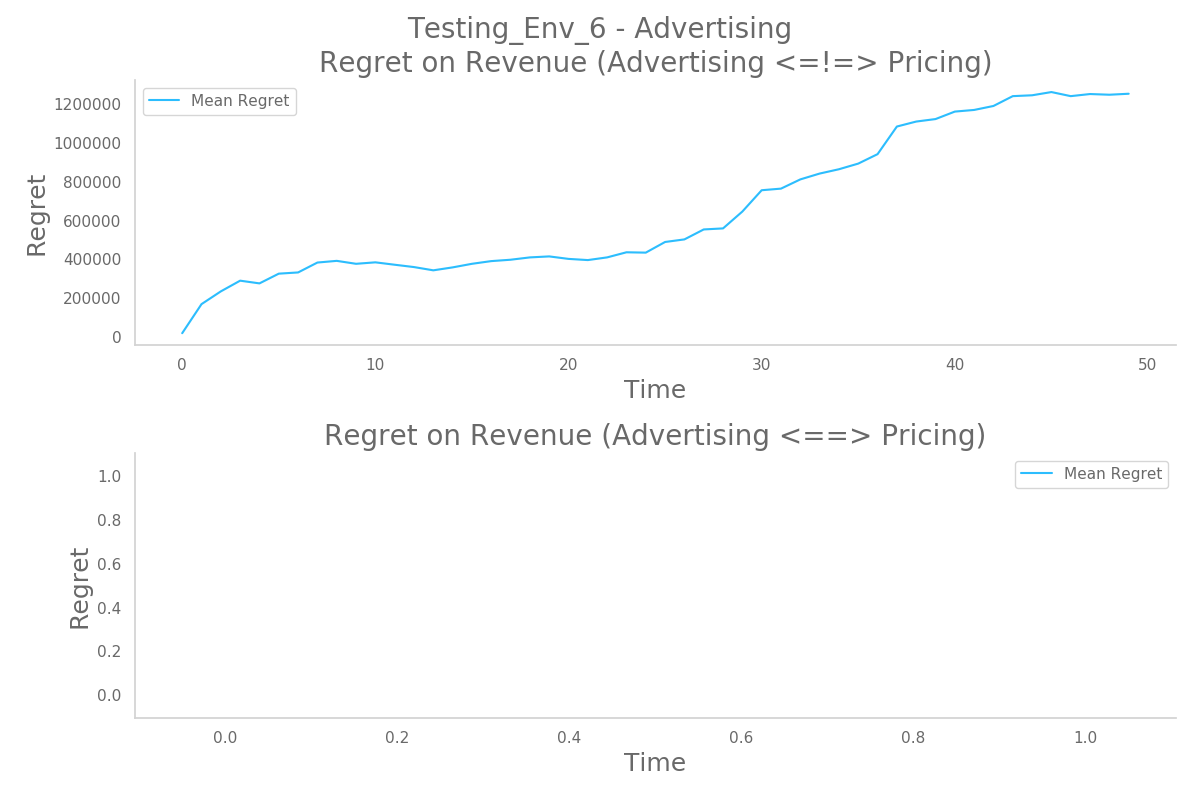
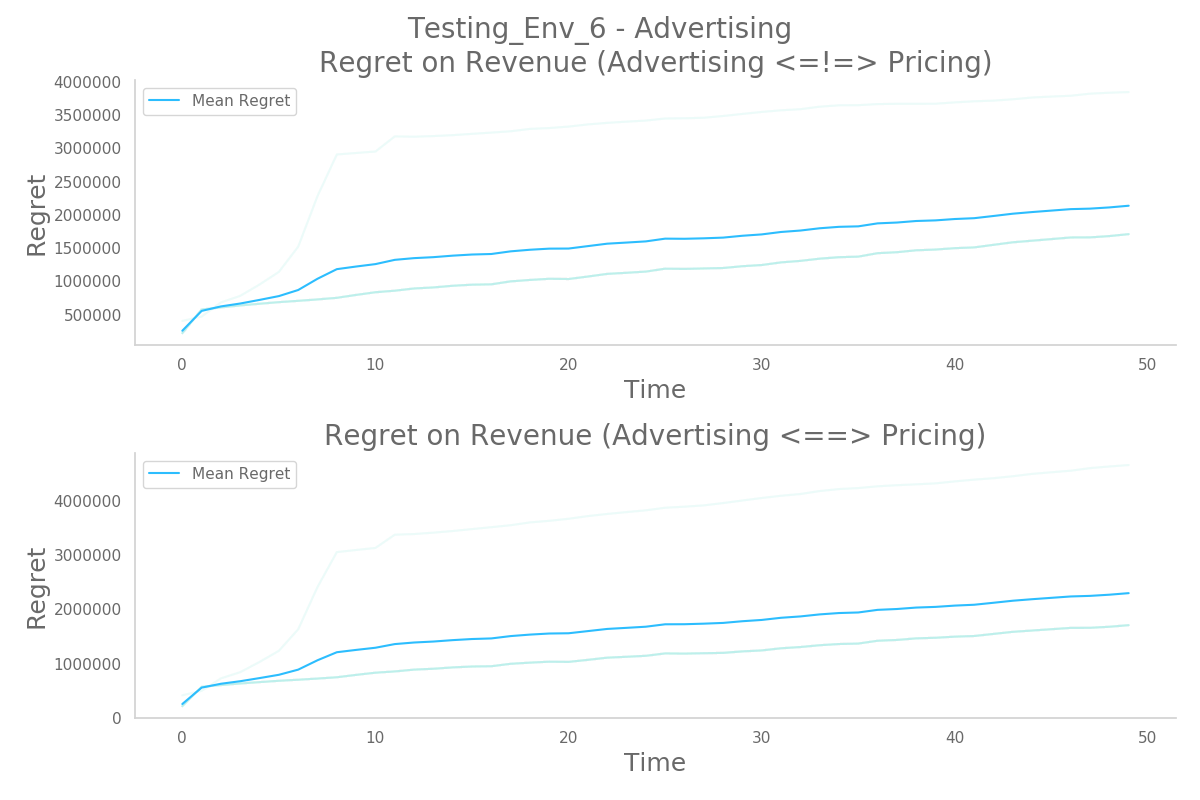
backup

diff --git a/project/part_6/BudgetAllocator.py b/project/part_6/BudgetAllocator.py
@@ -54,7 +54,7 @@ class BudgetAllocator:
 
             n_clicks = subcampaign_handler.total_clicks
             v = subcampaign_handler.total_revenue / n_clicks if n_clicks != 0 else 0
-            revenue_clicks = learner_clicks * v if self.enable_pricing else learner_clicks
+            revenue_clicks = np.multiply(learner_clicks, v) if self.enable_pricing else learner_clicks
 
             table_all_subs = np.append(table_all_subs, np.atleast_2d(revenue_clicks.T), 0)
 
@@ -78,7 +78,7 @@ class BudgetAllocator:
         # for loop to initialize the table with the product between the unknown curves and the optimal revenues
         for sub_idx, subcampaign_handler in enumerate(self.msh.subcampaigns_handlers):
             unknown_clicks_curve = subcampaign_handler.advertising.env.subs[sub_idx].means['phase_0']
-            revenue_clicks = unknown_clicks_curve * subcampaign_handler.pricing.optimal_revenue
+            revenue_clicks = np.multiply(unknown_clicks_curve, subcampaign_handler.pricing.optimal_revenue)
             table_all_subs = np.append(table_all_subs, np.atleast_2d(revenue_clicks.T), 0)
 
         # computation of the optimal allocation
@@ -87,7 +87,8 @@ class BudgetAllocator:
         # Once we have computed the optimal allocation, we can compute the total revenue
         # using the pricing
         optimal_total_revenue = 0
-        for sub_idx, (allocation, subcampaign_handler) in enumerate(zip(optimal_allocation, self.msh.subcampaigns_handlers)):
+        for sub_idx, (allocation, subcampaign_handler) in enumerate(zip(optimal_allocation,
+                                                                        self.msh.subcampaigns_handlers)):
             hypothetical_pulled_arm = get_idx_arm_from_allocation(
                 allocation=allocation,
                 bids=self.msh.subcampaigns_handlers[0].advertising.env.bids)

diff --git a/project/part_6/Advertising.py b/project/part_6/Advertising.py
@@ -1,5 +1,5 @@
 from project.part_2.GPTS_Learner import GPTS_Learner
-from project.part_2.Utils import compute_clairvoyant
+from project.part_2.Utils import compute_clairvoyant, get_idx_arm_from_allocation
 
 
 class Advertising:
@@ -20,7 +20,7 @@ class Advertising:
         self.learner = GPTS_Learner(self.n_arms, self.env.bids)
 
         self.daily_clicks = 0
-        self.optimal_clicks = compute_clairvoyant(self.env, verbose=True) / 3
+        self.optimal_clicks = self.get_optimal()
         # division by three because the function returns the total optimal number of clicks,
         # but we need only the optimal for a single sub-campaign if we want to to compute the regret!
 
@@ -37,3 +37,11 @@ class Advertising:
         self.learner.update(pulled_arm, self.daily_clicks)
 
         return self.daily_clicks
+
+    def get_optimal(self):
+        optimal_allocation = compute_clairvoyant(self.env, verbose=True)[0][self.sub_idx]
+        hypothetical_pulled_arm = get_idx_arm_from_allocation(
+            allocation=optimal_allocation,
+            bids=self.env.bids)
+        optimal_clicks = self.env.subs[self.sub_idx].means['phase_0'][hypothetical_pulled_arm]
+        return optimal_clicks

diff --git a/project/part_6/Testing_Env_6.py b/project/part_6/Testing_Env_6.py
@@ -15,7 +15,7 @@ from project.part_6.BudgetAllocator import BudgetAllocator
 
 np.random.seed(0)
 
-enable_pricing = True
+enable_pricing = False
 
 
 def execute_experiment(args):
@@ -25,7 +25,7 @@ def execute_experiment(args):
 
     budget_allocator = BudgetAllocator(multi_class_handler=mch,
                                        n_arms_pricing=10,
-                                       n_arms_advertising=15,
+                                       n_arms_advertising=11,
                                        enable_pricing=enable_pricing)
 
     current_day, done = env.reset()
@@ -92,7 +92,7 @@ if __name__ == '__main__':
     plt.legend()
     plt.show()
 
-    n_experiments = 1  # the number is small to do a raw test, otherwise set it to 1000
+    n_experiments = 10  # the number is small to do a raw test, otherwise set it to 1000
     agnostic_regret_per_experiment = []  # collect all the regrets achieved
     regret_per_experiment = []
     args = [{'environment': copy.deepcopy(base_env), 'index': idx, 'multiclasshandler': mch}

diff --git a/project/part_2/Testing_part2.py b/project/part_2/Testing_part2.py
@@ -8,7 +8,7 @@ from project.part_2.GPTS_Learner import GPTS_Learner
 from project.part_2.Optimizer import fit_table
 from project.part_2.Utils import get_idx_arm_from_allocation, compute_clairvoyant
 
-np.random.seed(0)
+np.random.seed(88)
 
 
 def initialization(total_click, learners, env):
@@ -114,7 +114,7 @@ if __name__ == '__main__':
     for i in range(0, n_subcamp):
         learners.append(GPTS_Learner(n_arms, bids))
 
-    opt = compute_clairvoyant(env, verbose=True)
+    opt = compute_clairvoyant(env, verbose=True)[1]
 
     total_click_each_day = initialization(total_click_each_day, learners, env)
 

diff --git a/project/dia_pckg/SubCampaign.py b/project/dia_pckg/SubCampaign.py
@@ -19,8 +19,8 @@ class SubCampaign:
         self.product = product
         self.campaign = campaign
 
-        self.param_for_phase = np.random.choice(np.arange(3, 6, 0.01), 3)
-        self.max_value_phase = np.random.choice(np.arange(0.8, 1, 0.01), 3)
+        self.param_for_phase = np.random.choice(np.arange(2, 7, 0.01), 3)
+        self.max_value_phase = np.random.choice(np.arange(0.3, 1, 0.01), 3)
 
         self.means = {f'phase_{i}': self.phase_curve(bids, phase=i) for i in range(3)}
         self.sigmas = {f'phase_{i}': np.full(self.means[f'phase_{i}'].shape, sigma * self.max_n_clicks) for i in

diff --git a/project/dia_pckg/Config.py b/project/dia_pckg/Config.py
@@ -8,7 +8,7 @@ n_days = 50
 
 # Seller wallet and ambitions
 seller_max_budget = 20000  # $
-max_n_clicks = 1000
+max_n_clicks = 5000
 avg_users_per_day = 100  # this param must be changed after budget allocation available!
 
 # one product to sell
@@ -47,4 +47,4 @@ n_subcamp = 3
 max_bid = 1
 n_arms = 10
 
-noise_std = 0.05
+noise_std = 0.0

diff --git a/project/part_2/Utils.py b/project/part_2/Utils.py
@@ -15,7 +15,7 @@ def compute_clairvoyant(env, phase=0, verbose=False):
 
     if verbose:
         print(f"Best bidding clairvoyant (best_allocation, n_clicks): {best_allocation}, {n_clicks}")
-    return n_clicks
+    return best_allocation, n_clicks
 
 
 def get_idx_arm_from_allocation(allocation, bids):
